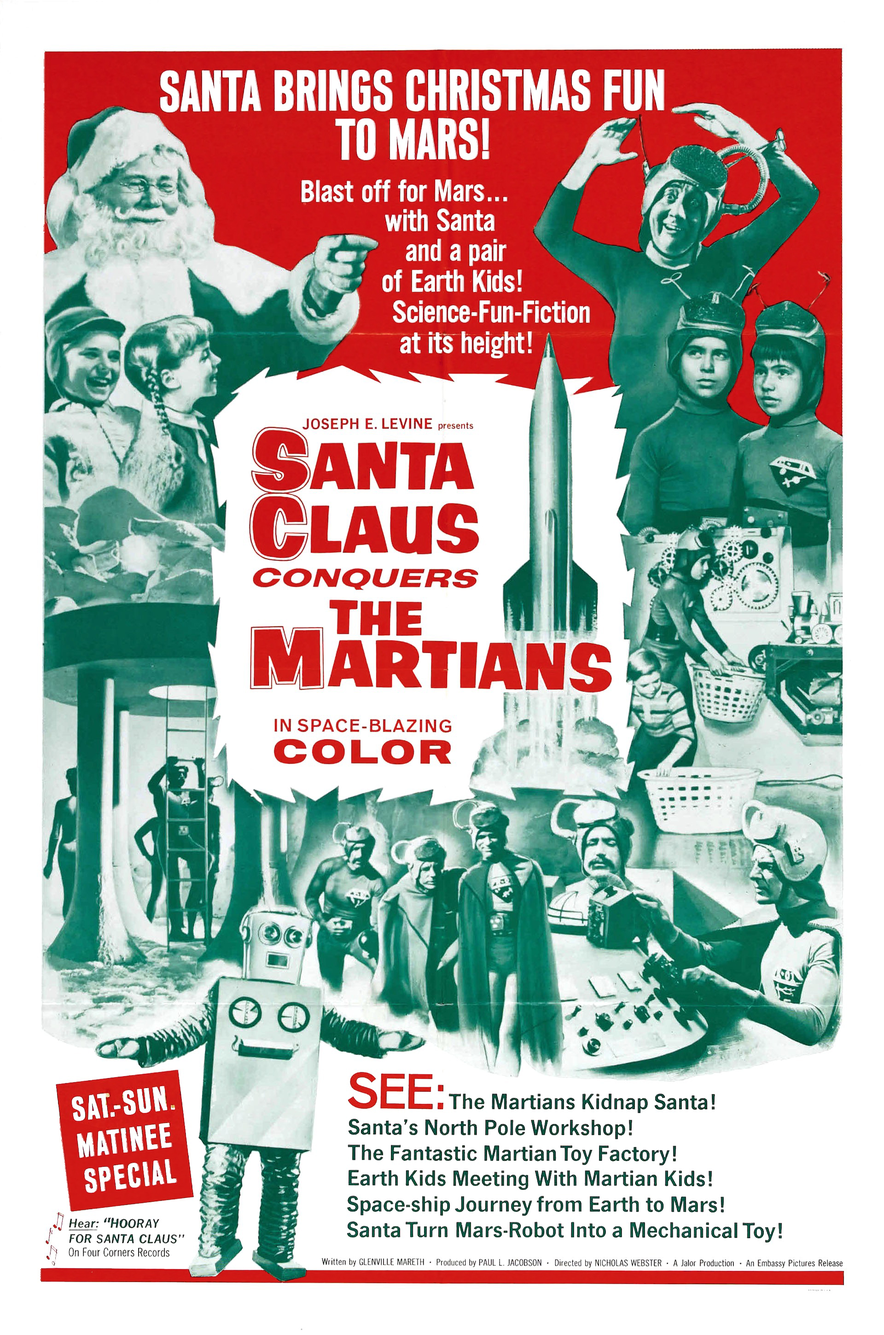
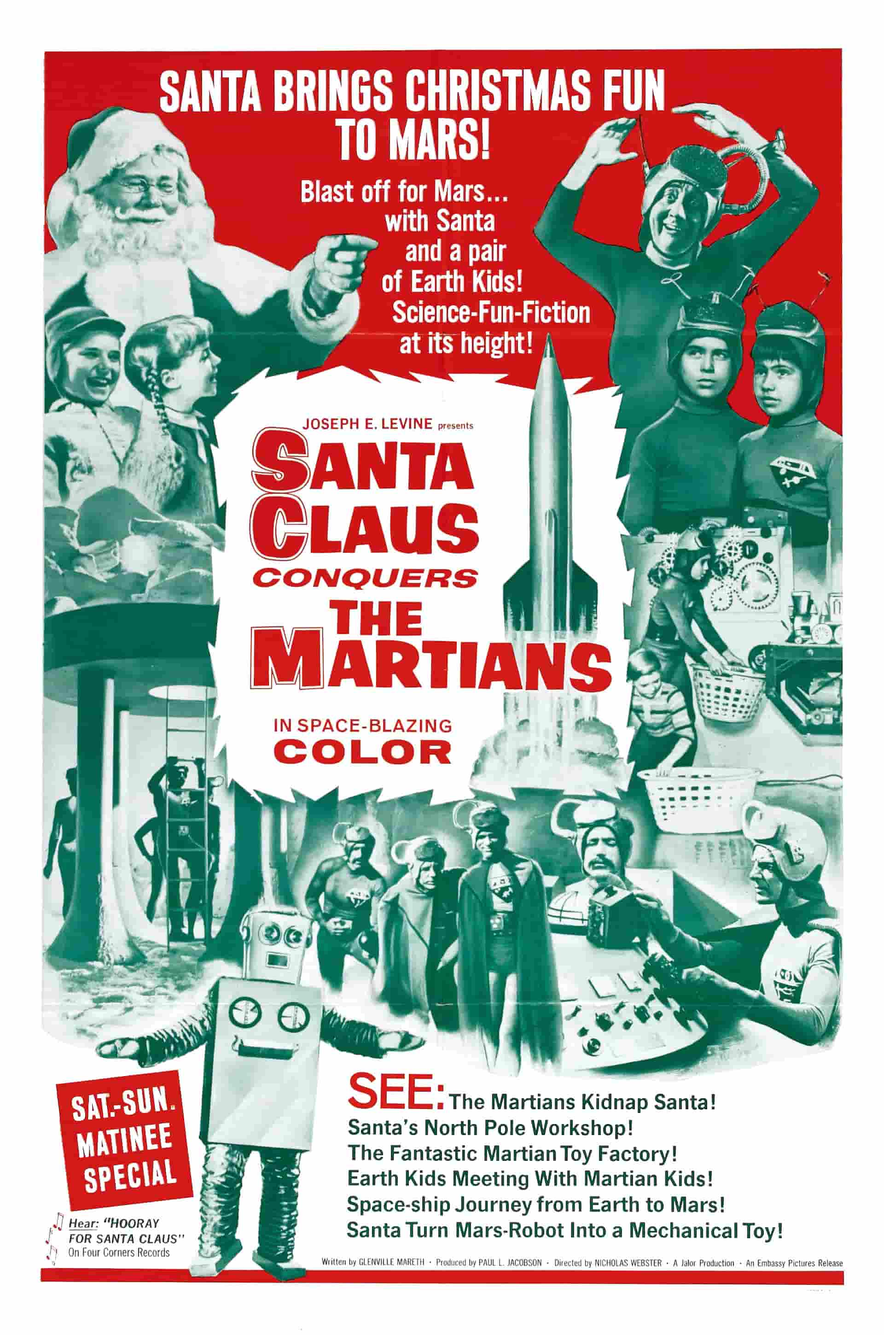
Уменьшен вес файлов с постерами фильмов

diff --git a/src/debug-data.ts b/src/debug-data.ts
@@ -92,7 +92,7 @@ export const films: Movie[] = [
         new FilmInfo(
             'Made for Each Other',
             'Made for Each Other',
-            './img/debug-posters/made-for-each-other.png',
+            './img/debug-posters/made-for-each-other.jpg',
             'John Cromwell',
             'While on a business trip, an ambitious young lawyer meets and immediately falls in love with a stranger. They wed the following day, and tragedy soon strikes.',
             5.8,
@@ -128,7 +128,7 @@ export const films: Movie[] = [
         new FilmInfo(
             'Popeye the Sailor Meets Sindbad the Sailor',
             'Popeye the Sailor Meets Sindbad the Sailor',
-            './img/debug-posters/popeye-meets-sinbad.png',
+            './img/debug-posters/popeye-meets-sinbad.jpg',
             'Dave Fleischer',
             'The legendary sailors Popeye and Sindbad do battle to see which one is the greatest.',
             6.3,

diff --git a/src/settings.ts b/src/settings.ts
@@ -4,7 +4,7 @@ export const FILMS_CHUNK_SIZE: number = 5;
 export const NEW_COMMENT_EMOJI_SIZE: number = 55;
 export const STATS_SHOWN_GENRES_COUNT: number = 4;
 export const SERVER_ORIGIN: string = 'https://localhost:7127';
-export const IS_DEBUG: boolean = false;
+export const IS_DEBUG: boolean = true;
 
 export const userData: UserData = new UserData(
     'Frank Sinatra',
